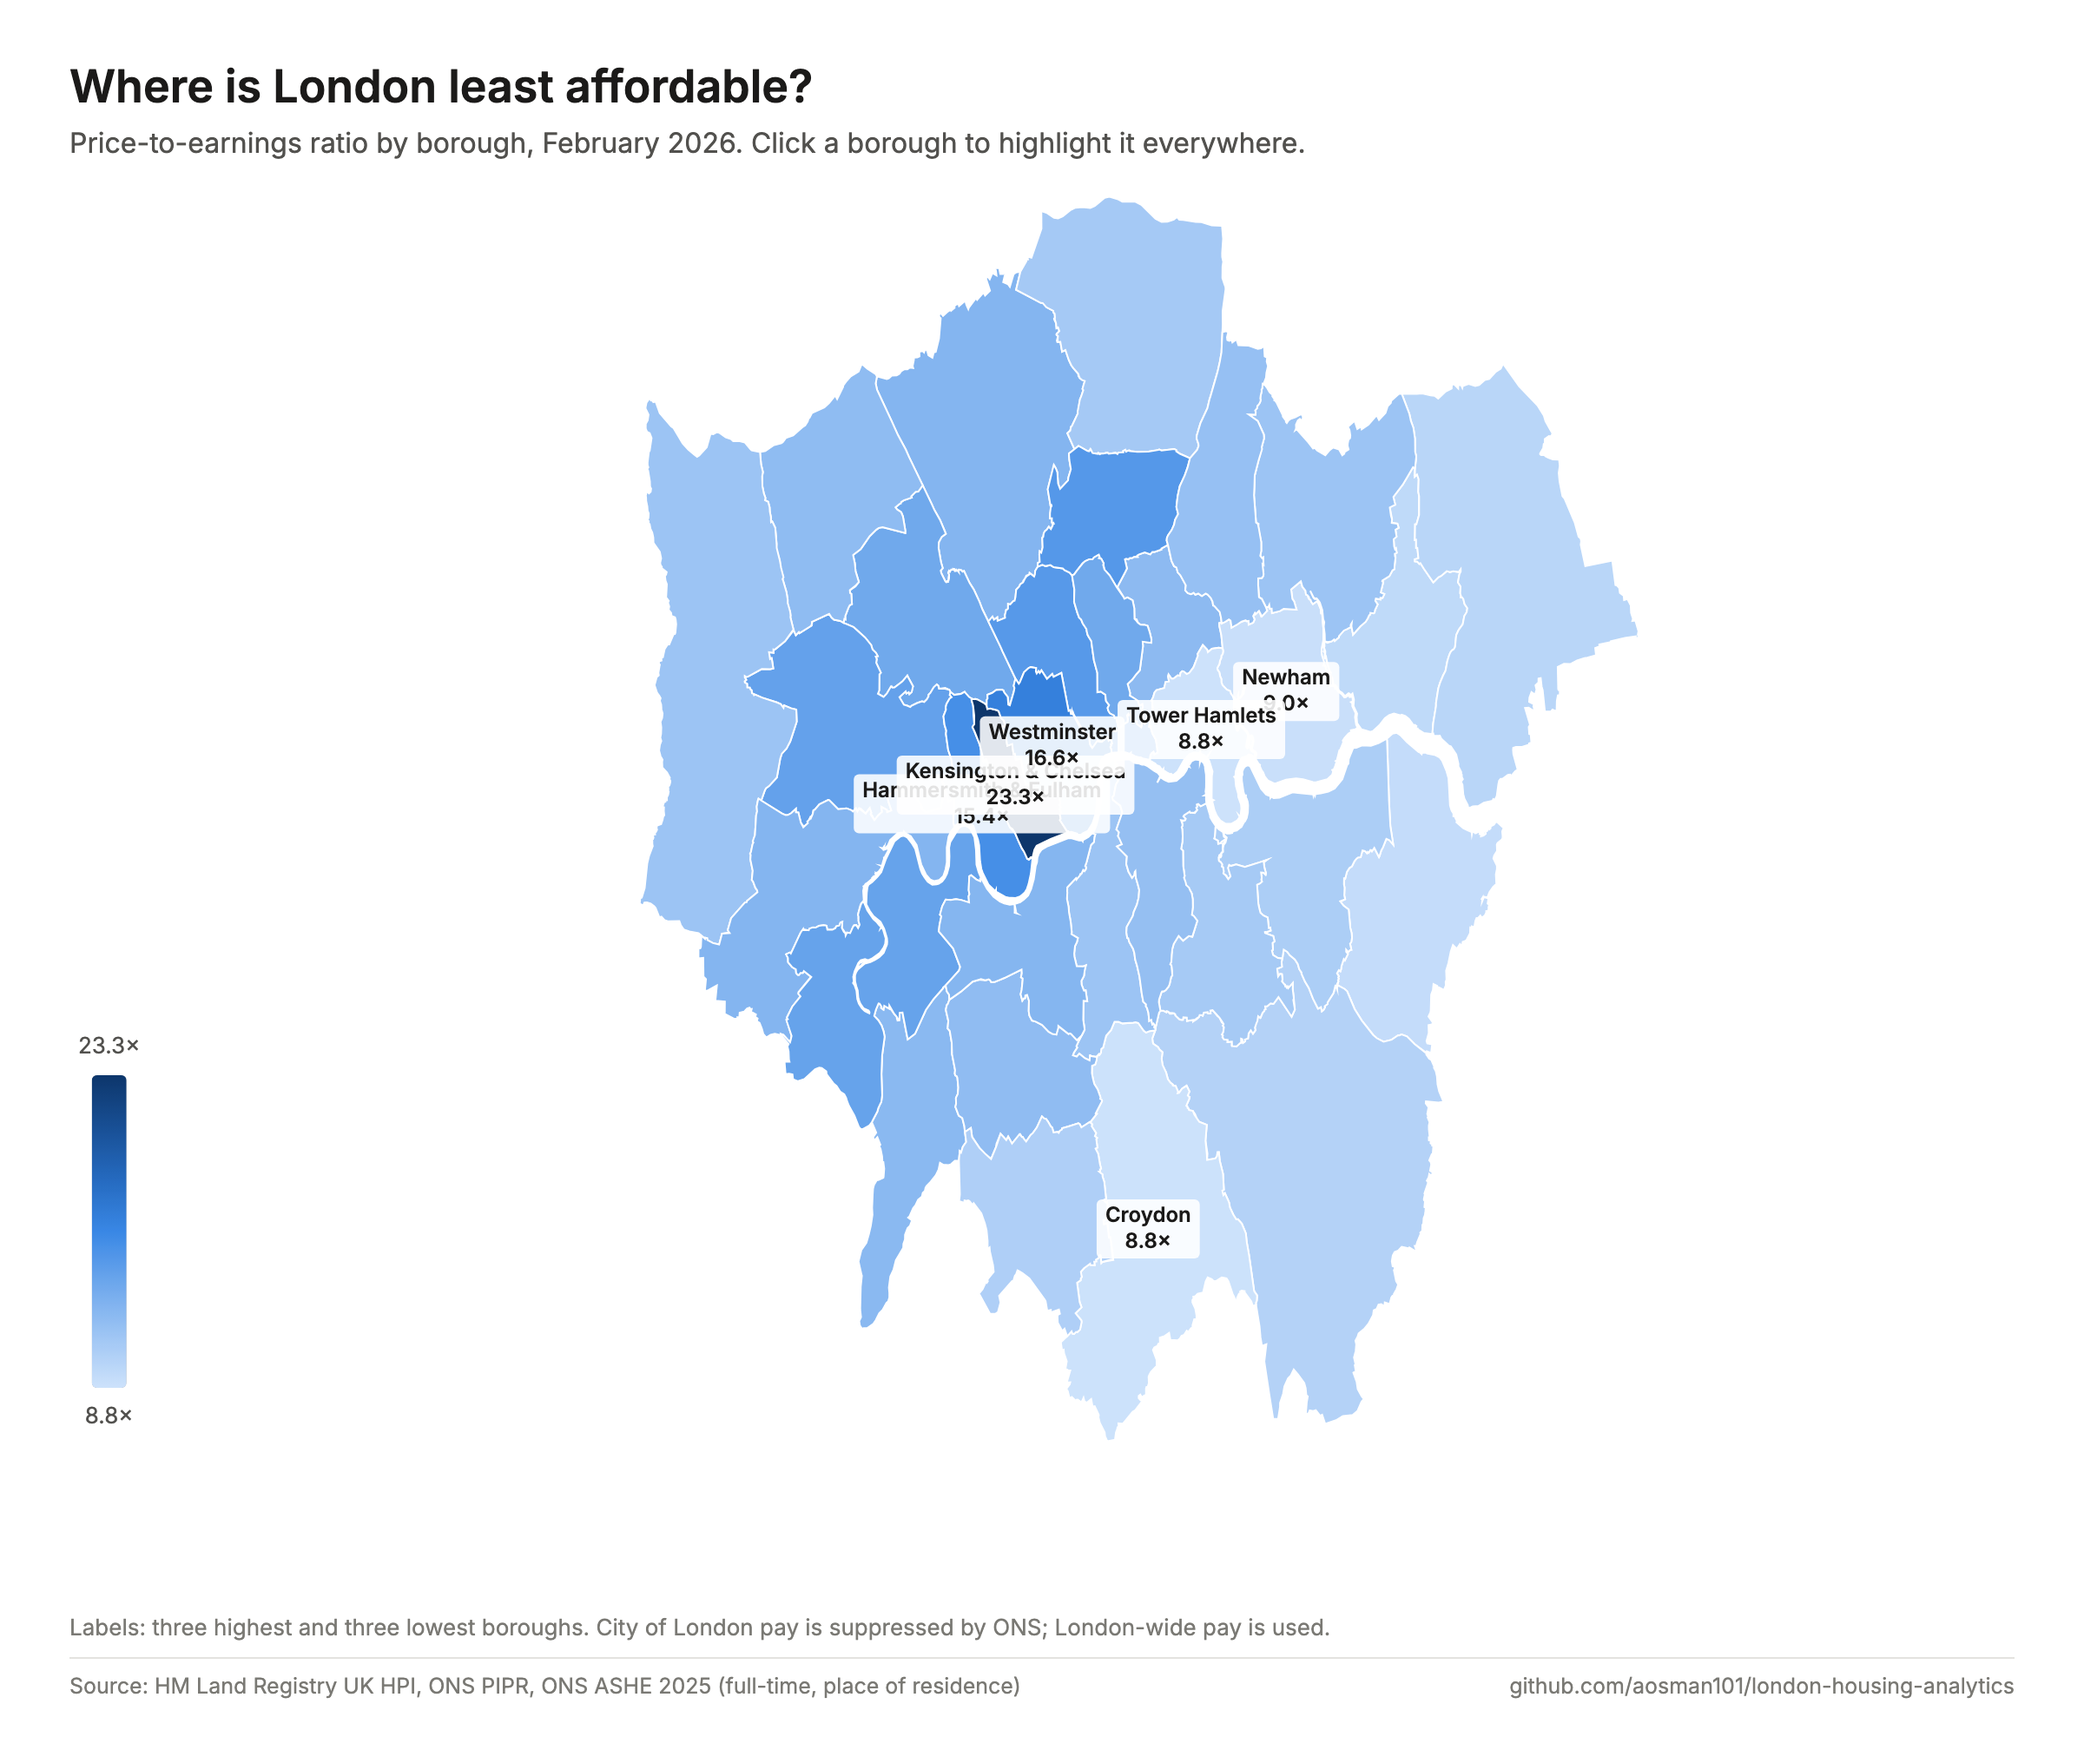
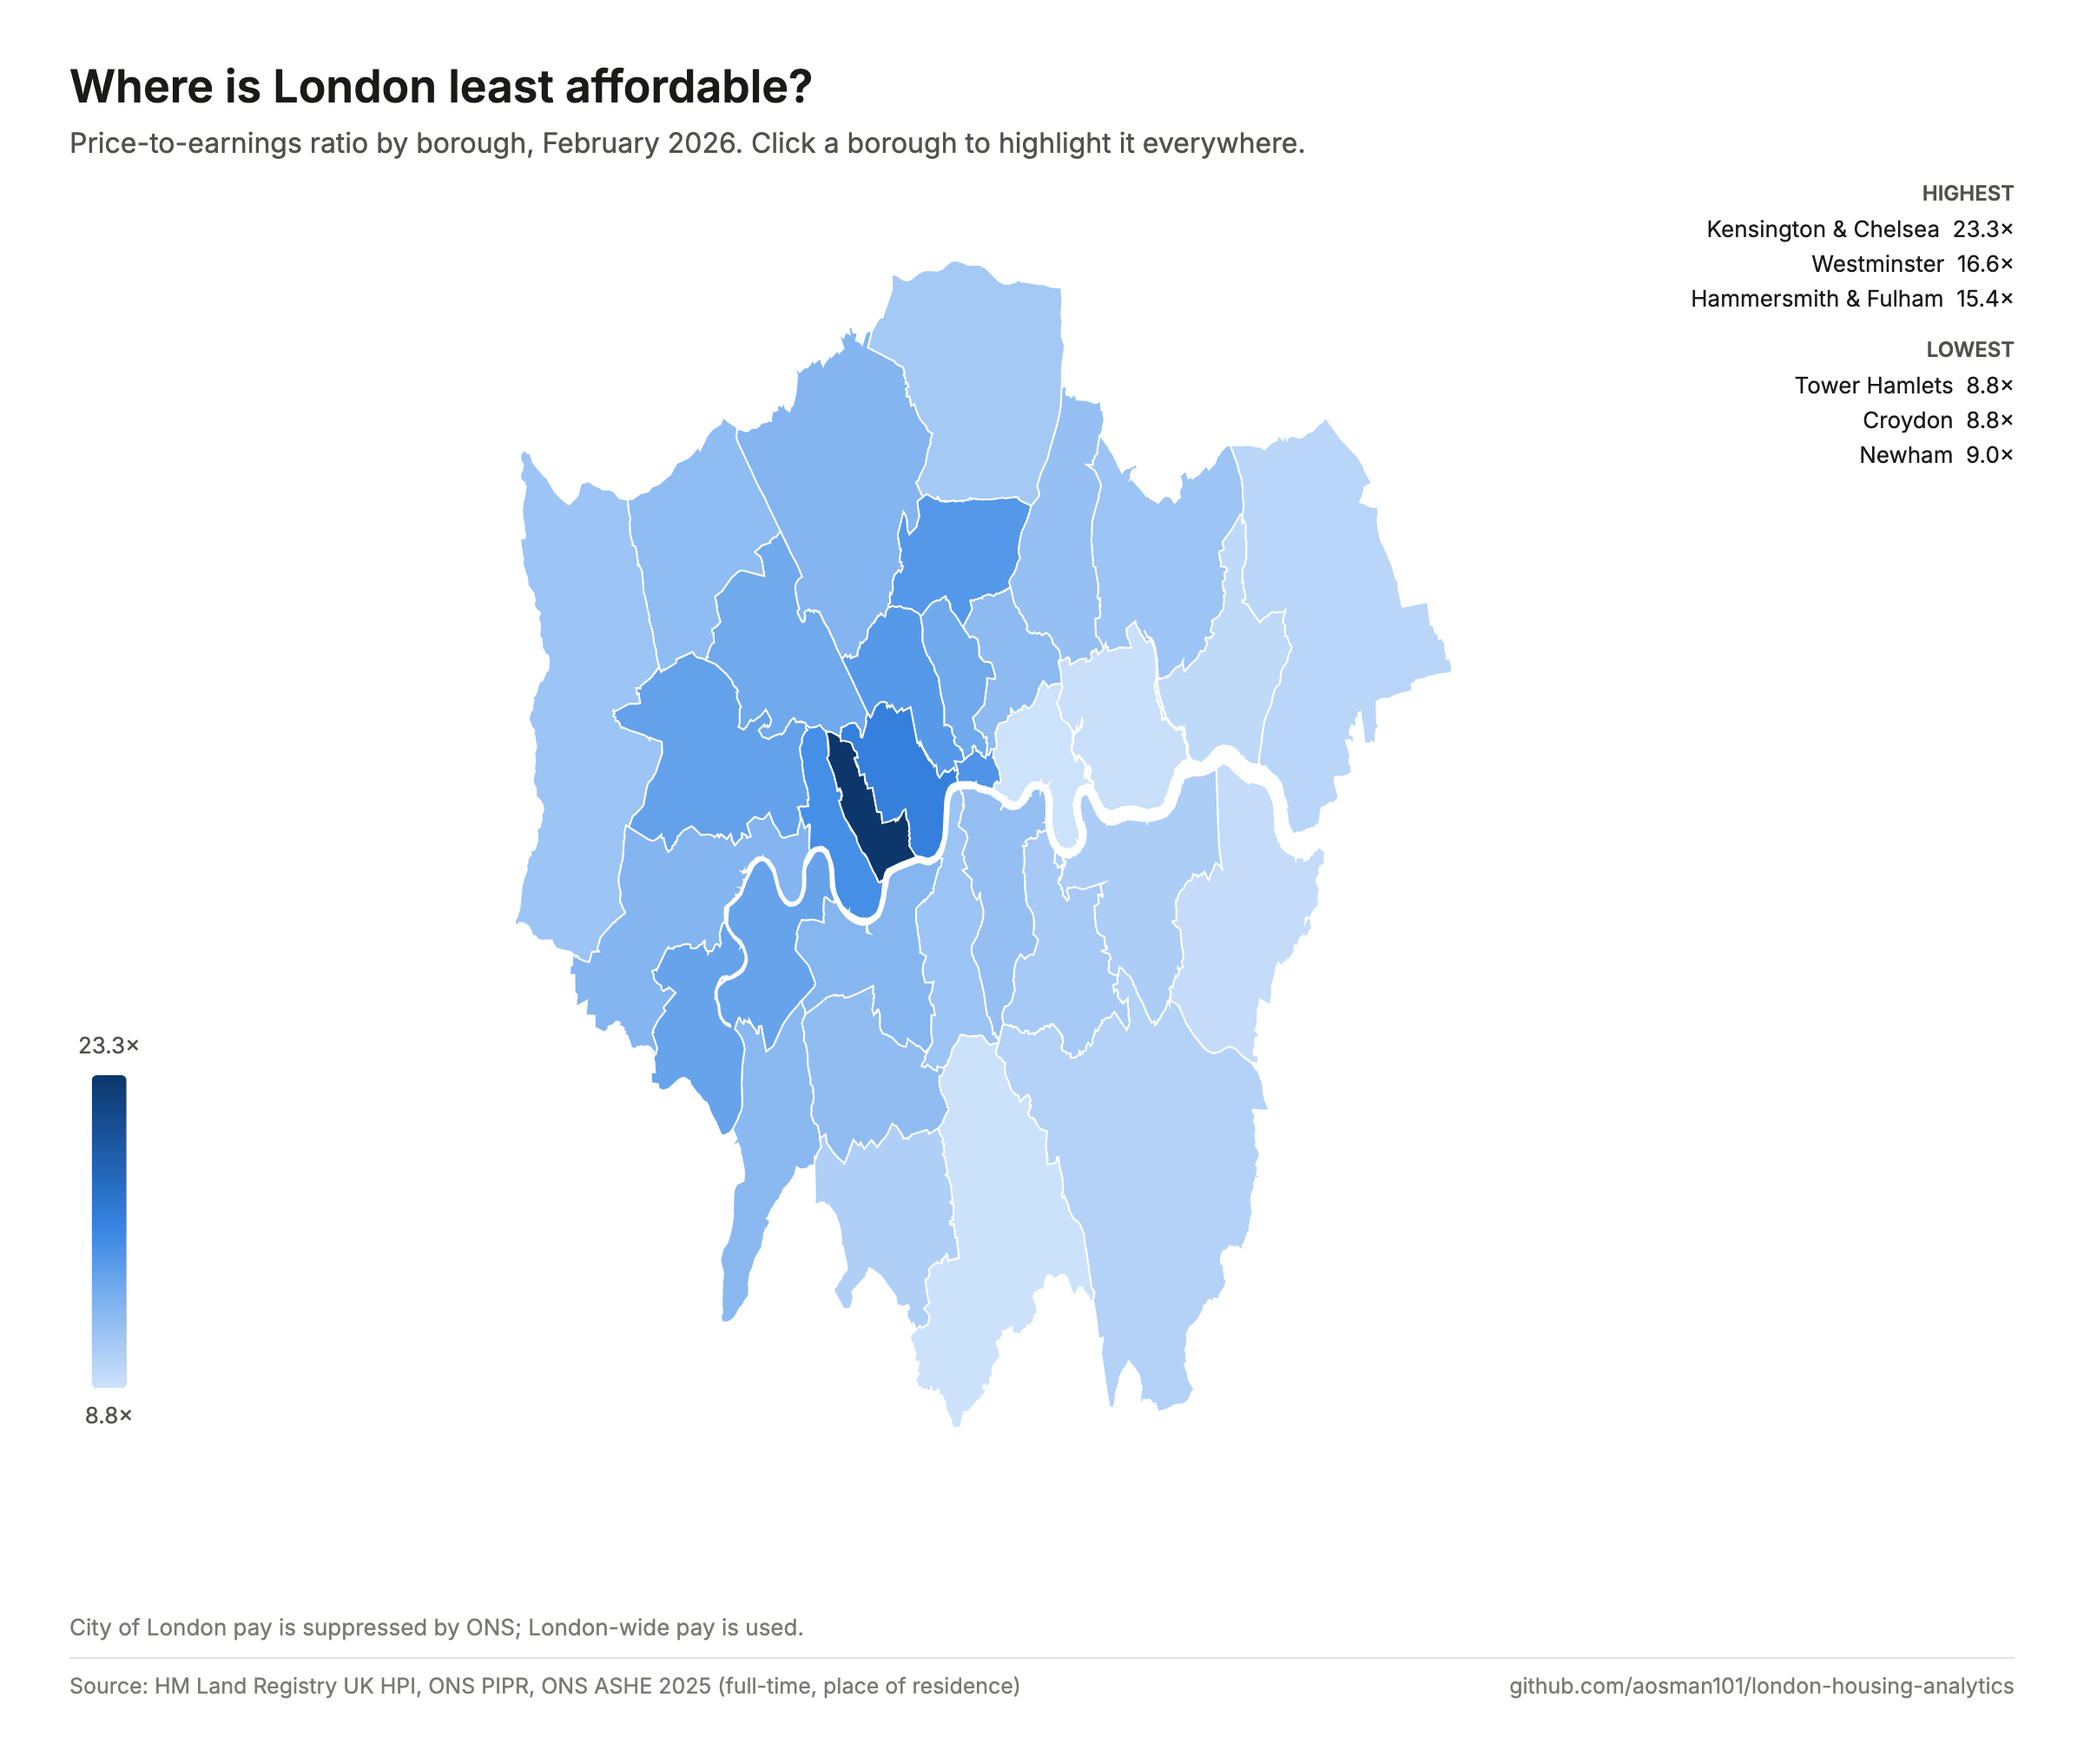
Update dashboard visuals and remove outdated rent vs price growth image

Changed region(s): [[0.25, 0.093, 0.7812, 0.837], [0.0312, 0.93, 0.625, 0.961], [0.8125, 0.093, 0.9688, 0.279]]

diff --git a/housing-analytics/dashboard/index.html b/housing-analytics/dashboard/index.html
@@ -254,7 +254,7 @@ function rankedBar({ metric, fmt, colour = 'group', top = 'max', mark, decalIf, 
     tooltip: tooltip({ trigger: 'item', formatter: p => p.seriesIndex > 0 && p.data == null ? '' :
       `<b>${byCode[p.data.code].area_name}</b><br>${fmt(p.value)}<br><span style="color:${C.ink3}">${byCode[p.data.code].group}</span>` }),
     xAxis: valueAxis({ name: xName, nameLocation: 'middle', nameGap: 24,
-      min: e => e.min < 0 ? e.min - (Math.max(e.max, 0) - e.min) * 0.16 : 0,
+      min: e => e.min < 0 ? e.min - (Math.max(e.max, 0) - e.min) * 0.3 : 0,
       max: e => e.max > 0 ? e.max + (e.max - Math.min(e.min, 0)) * 0.08 : 0,
       axisLabel: { color: C.ink2, fontSize: fs(), showMinLabel: false, showMaxLabel: false, formatter: v => fmt(v).replace(/\.0(?=\D|$)/, '') } }),
     yAxis: catAxis({ data: rows.map(b => short(b.area_name)), axisLabel: { color: C.ink, fontSize: fs(), interval: 0,
@@ -281,7 +281,7 @@ const V = {};
 V.map = {
   title: () => 'Where is London least affordable?',
   desc: () => `${MAP_METRICS[S.mapMetric].label} by borough, ${K.latest_month}. Click a borough to highlight it everywhere.`,
-  foot: () => 'Labels: three highest and three lowest boroughs. ' + (S.mapMetric.includes('rent') || S.mapMetric.includes('yield') || S.mapMetric === 'stress_index'
+  foot: () => (S.mapMetric.includes('rent') || S.mapMetric.includes('yield') || S.mapMetric === 'stress_index'
     ? 'City of London has no published rent series (grey).' : 'City of London pay is suppressed by ONS; London-wide pay is used.'),
   tools: () => `<select id="mapMetric" aria-label="Map metric">${Object.entries(MAP_METRICS).map(([k, m]) =>
       `<option value="${k}" ${k === S.mapMetric ? 'selected' : ''}>${m.label}</option>`).join('')}</select>`,
@@ -292,28 +292,37 @@ V.map = {
     if (m.scale === 'div') { const a = Math.max(Math.abs(min), Math.abs(max)); min = -a; max = a; colors = C.div; }
     if (m.scale === 'seqRev') colors = [...C.seq].reverse();
     const ranked = D.boroughs.filter(b => inScope(b) && b[S.mapMetric] != null).sort((a, b) => a[S.mapMetric] - b[S.mapMetric]);
-    const extremes = new Set([...ranked.slice(0, 3), ...ranked.slice(-3)].map(b => b.area_code));
+    const listFs = fs();
+    const lines = (title, rows, y) => [
+      { type: 'text', right: 0, top: y, style: { text: title, fill: C.ink2, font: `600 ${listFs - 1}px ${FONT}` } },
+      ...rows.map((b, i) => ({ type: 'text', right: 0, top: y + (i + 1) * (listFs + 7),
+        style: { text: `${short(b.area_name)}  ${m.fmt(b[S.mapMetric])}`, fill: C.ink, font: `${listFs}px ${FONT}`, align: 'right' } })),
+    ];
+    const graphic = ranked.length < 6 ? [] : [
+      ...lines('HIGHEST', [...ranked].reverse().slice(0, 3), 0),
+      ...lines('LOWEST', ranked.slice(0, 3), 4 * (listFs + 7) + 10),
+    ];
     return {
       textStyle: baseText(), animation: ANIM,
       tooltip: tooltip({ trigger: 'item', formatter: p => { const b = byCode[p.name]; if (!b) return '';
         return `<b>${b.area_name}</b> <span style="color:${C.ink3}">${b.group}</span><br>${m.label}: <b>${m.fmt(b[S.mapMetric])}</b>
           <br>Avg price ${F.gbp(b.average_price)} · Rent ${F.gbp(b.avg_monthly_rent)}/mo<br>Median pay ${F.gbp(b.median_gross_annual_pay)}`; } }),
+      graphic,
       visualMap: { min, max, calculable: !EXPORT, orient: 'vertical', left: 0, bottom: 10, itemHeight: EXPORT === 'full' ? 140 : 180,
         inRange: { color: colors }, text: [m.fmt(max), m.fmt(min)], textStyle: { color: C.ink2, fontSize: fs() }, formatter: v => m.fmt(v) },
       series: [{
-        type: 'map', map: 'london', aspectScale: 0.62, roam: false, layoutCenter: ['55%', '50%'], layoutSize: '98%',
+        type: 'map', map: 'london', aspectScale: 0.62, roam: false, layoutCenter: ['47%', '52%'], layoutSize: '92%',
         selectedMode: false,
         itemStyle: { borderColor: '#fff', borderWidth: 1, areaColor: C.faint },
         emphasis: { label: { show: true, color: C.ink, fontWeight: 600, fontSize: fs(), formatter: p => short(byCode[p.name].area_name) },
                     itemStyle: { areaColor: null, borderColor: C.ink, borderWidth: 1.5 } },
         label: { show: false },
         data: D.boroughs.map(b => {
-          const sel = b.area_code === S.borough, out = !inScope(b), ext = !out && extremes.has(b.area_code);
+          const sel = b.area_code === S.borough, out = !inScope(b);
           return { name: b.area_code, value: out ? null : b[S.mapMetric],
             itemStyle: out ? { areaColor: C.faint, borderColor: '#fff' } : sel ? { borderColor: C.ink, borderWidth: 2.5 } : {},
-            label: sel || ext ? { show: true, color: C.ink, fontWeight: sel ? 700 : 600, fontSize: fs() - 1, backgroundColor: 'rgba(255,255,255,.88)',
-                           padding: [2, 5], borderRadius: 3, lineHeight: fs() + 2,
-                           formatter: () => `${short(b.area_name)}\n${m.fmt(b[S.mapMetric])}` } : undefined };
+            label: sel ? { show: true, color: C.ink, fontWeight: 700, fontSize: fs(), backgroundColor: 'rgba(255,255,255,.9)',
+                           padding: [2, 5], borderRadius: 3, formatter: () => short(b.area_name) } : undefined };
         }),
       }],
     };
@@ -386,13 +395,16 @@ V.rentvsprice = {
   desc: () => `Cumulative change, January 2015 to the latest month. Points above the dashed line: rents grew faster than prices (${K.rent_outgrew_price_since_2015} of ${K.boroughs_with_rent} boroughs).`,
   option: () => {
     const rows = scoped().filter(b => b.rent_growth_since_2015_pct != null);
+    const byRent = [...rows].sort((a, b) => b.rent_growth_since_2015_pct - a.rent_growth_since_2015_pct);
+    const byPrice = [...rows].sort((a, b) => b.price_growth_since_2015_pct - a.price_growth_since_2015_pct);
+    const rvpLabels = new Set([byRent[0], byRent[1], byRent.at(-1), byPrice.at(-1)].filter(Boolean).map(b => b.area_code));
     const series = Object.entries(GROUP_C).filter(([g]) => S.group === 'All' || S.group === g).map(([g, col]) => ({
       name: g, type: 'scatter', symbolSize: 12, color: col, labelLayout: { hideOverlap: true, moveOverlap: 'shiftY' },
       itemStyle: { borderColor: '#fff', borderWidth: 1.5 },
       data: rows.filter(b => b.group === g).map(b => ({ value: [b.price_growth_since_2015_pct, b.rent_growth_since_2015_pct], code: b.area_code,
         symbolSize: b.area_code === S.borough ? 20 : 12,
         itemStyle: b.area_code === S.borough ? { borderColor: C.ink, borderWidth: 2.5 } : {},
-        label: { show: b.area_code === S.borough || b.rent_growth_since_2015_pct > 58 || b.rent_growth_since_2015_pct < 36 || b.price_growth_since_2015_pct > 48 || b.price_growth_since_2015_pct < 5,
+        label: { show: b.area_code === S.borough || rvpLabels.has(b.area_code),
                  formatter: () => short(b.area_name), position: 'right', color: C.ink, fontSize: fs() - 1 } })),
     }));
     const lo = -15, hi = 75;
@@ -560,12 +572,15 @@ V.yieldscatter = {
   desc: () => `Gross rental yield vs average price (r = ${K.yield_price_corr.toFixed(2)}).`,
   option: () => {
     const rows = scoped().filter(b => b.gross_rental_yield_pct != null);
+    const byYield = [...rows].sort((a, b) => b.gross_rental_yield_pct - a.gross_rental_yield_pct);
+    const byPx = [...rows].sort((a, b) => b.average_price - a.average_price);
+    const yLabels = new Set([byYield[0], byYield[1], byYield.at(-1), byPx[0], byPx[1]].filter(Boolean).map(b => b.area_code));
     const series = Object.entries(GROUP_C).filter(([g]) => S.group === 'All' || S.group === g).map(([g, col]) => ({
       name: g, type: 'scatter', color: col, itemStyle: { borderColor: '#fff', borderWidth: 1.5 }, labelLayout: { hideOverlap: true, moveOverlap: 'shiftY' },
       data: rows.filter(b => b.group === g).map(b => ({ value: [b.average_price, b.gross_rental_yield_pct], code: b.area_code,
         symbolSize: b.area_code === S.borough ? 20 : 12, itemStyle: b.area_code === S.borough ? { borderColor: C.ink, borderWidth: 2.5 } : {},
-        label: { show: b.area_code === S.borough || b.gross_rental_yield_pct > 5.4 || b.gross_rental_yield_pct < 3.6 || b.average_price > 850000,
-                 formatter: () => short(b.area_name), position: b.average_price > 900000 ? 'left' : 'right', color: C.ink, fontSize: fs() - 1 } })),
+        label: { show: b.area_code === S.borough || yLabels.has(b.area_code),
+                 formatter: () => short(b.area_name), position: b.average_price > 900000 ? 'top' : 'right', color: C.ink, fontSize: fs() - 1 } })),
     }));
     return { textStyle: baseText(), animation: ANIM, legend: legend(), grid: { left: 24, right: 30, top: 30, bottom: 30, containLabel: true },
       tooltip: tooltip({ trigger: 'item', formatter: p => `<b>${byCode[p.data.code].area_name}</b><br>Price ${F.gbp(p.value[0])} · Yield ${F.pct(p.value[1])}` }),
